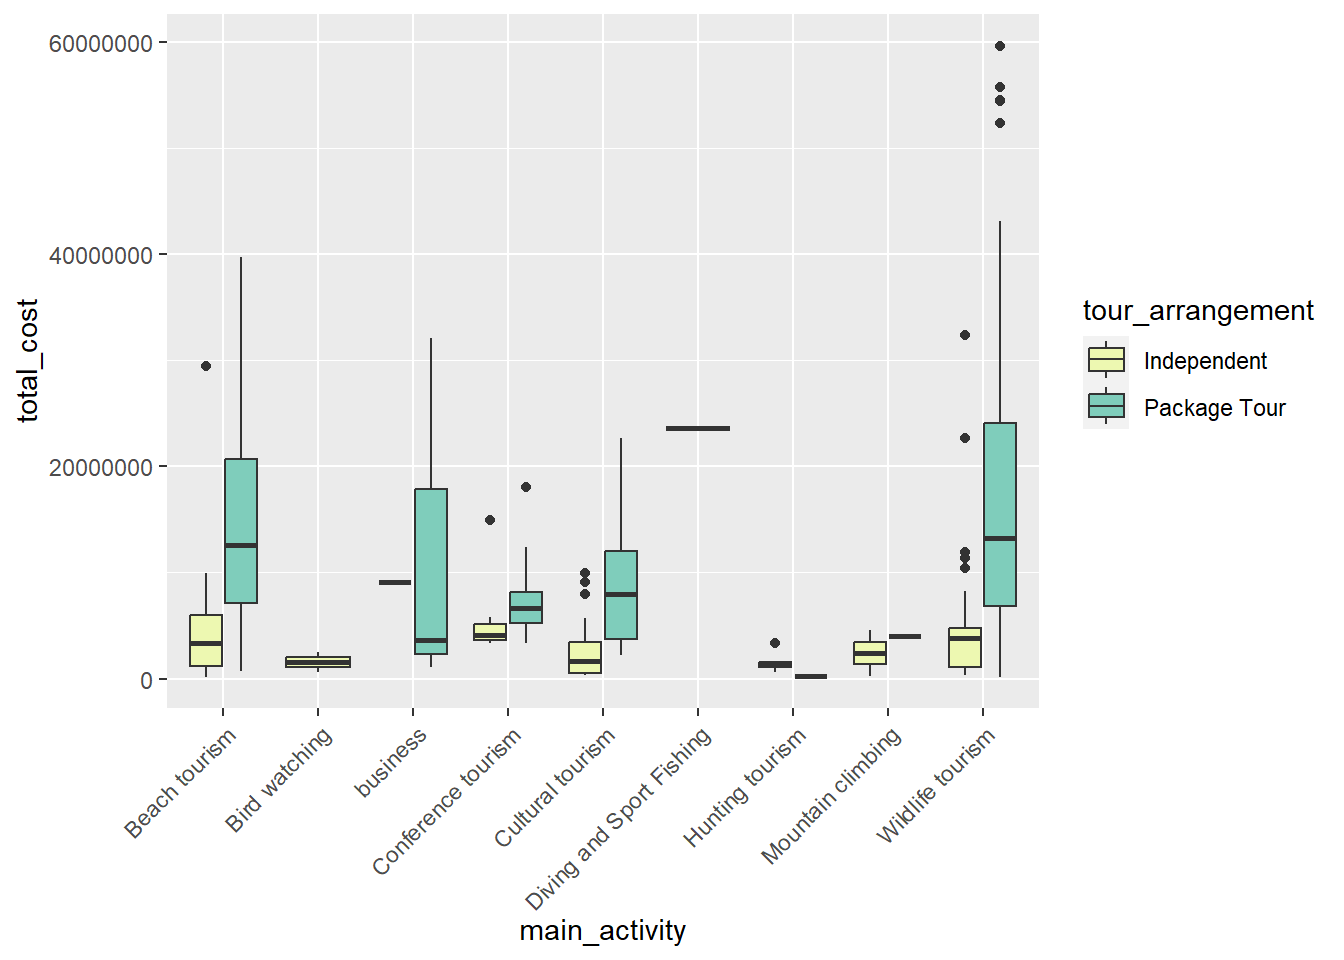
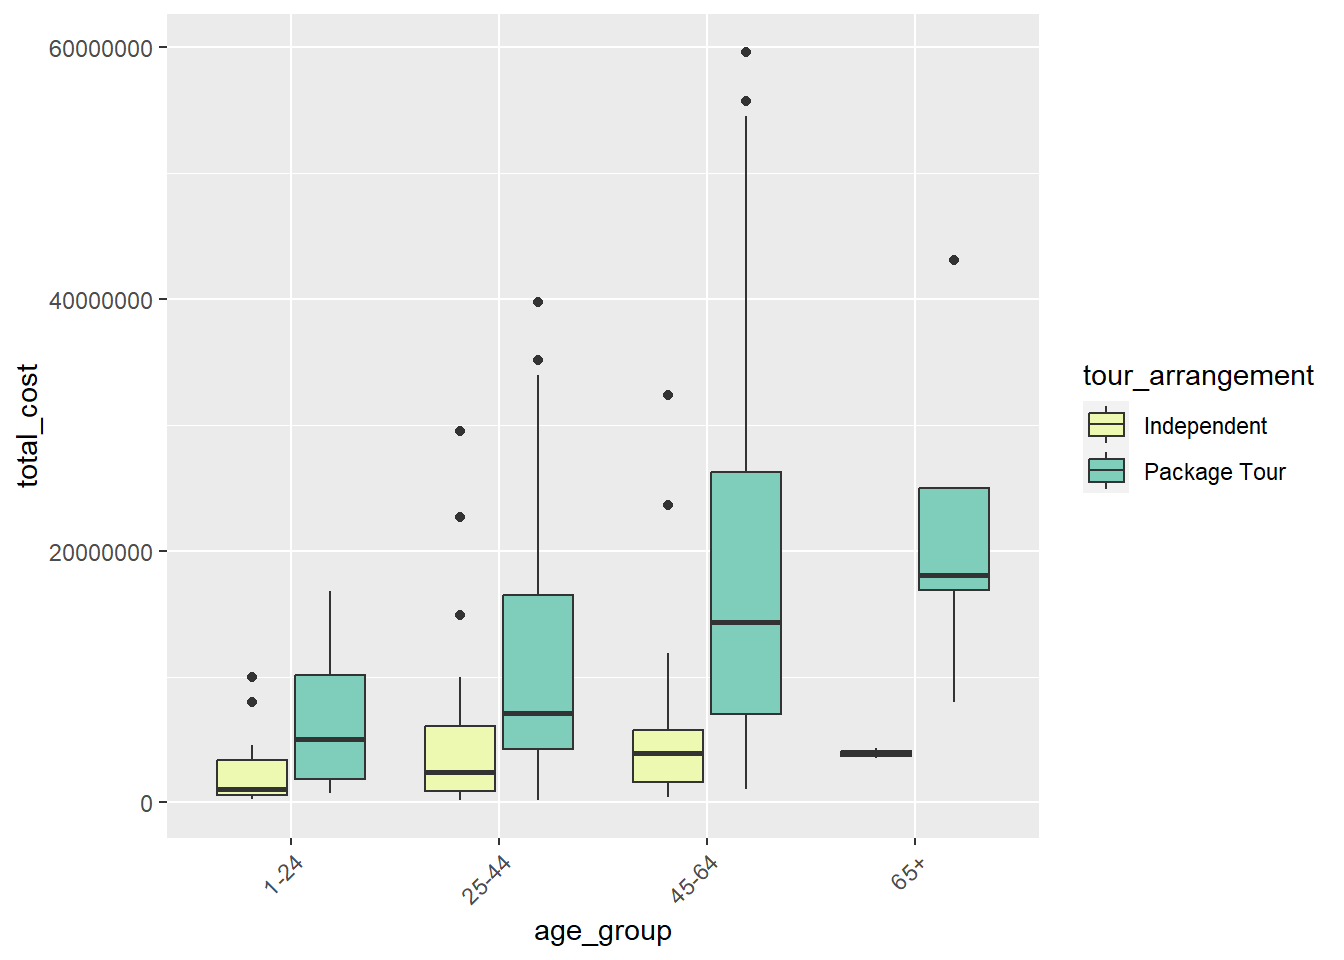
by age group

diff --git a/_site/EDA/EDA.html b/_site/EDA/EDA.html
@@ -311,7 +311,7 @@ code span.wa { color: #60a0b0; font-weight: bold; font-style: italic; } /* Warni
 <div class="sourceCode cell-code" id="cb9"><pre class="sourceCode r code-with-copy"><code class="sourceCode r"><span id="cb9-1"><a href="#cb9-1" aria-hidden="true" tabindex="-1"></a><span class="fu">options</span>(<span class="at">scipen =</span> <span class="dv">999</span>)</span>
 <span id="cb9-2"><a href="#cb9-2" aria-hidden="true" tabindex="-1"></a></span>
 <span id="cb9-3"><a href="#cb9-3" aria-hidden="true" tabindex="-1"></a>p1 <span class="ot">&lt;-</span> <span class="fu">ggplot</span>(<span class="at">data =</span> touristdata_clean <span class="sc">%&gt;%</span> <span class="fu">filter</span>(country <span class="sc">==</span> <span class="st">"GERMANY"</span>) <span class="sc">%&gt;%</span> <span class="fu">group_by</span>(tour_arrangement),</span>
-<span id="cb9-4"><a href="#cb9-4" aria-hidden="true" tabindex="-1"></a>                 <span class="fu">aes</span>(<span class="at">y =</span> total_cost, <span class="at">x =</span> main_activity)) <span class="sc">+</span> <span class="fu">geom_boxplot</span>(<span class="fu">aes</span>(<span class="at">fill =</span> tour_arrangement)) <span class="sc">+</span> <span class="fu">scale_fill_brewer</span>(<span class="at">palette=</span><span class="st">"YlGnBu"</span>) <span class="sc">+</span> <span class="fu">theme</span>(<span class="at">axis.text.x =</span> <span class="fu">element_text</span>(<span class="at">angle =</span> <span class="dv">45</span>, <span class="at">vjust =</span> <span class="dv">1</span>, <span class="at">hjust=</span><span class="dv">1</span>))</span>
+<span id="cb9-4"><a href="#cb9-4" aria-hidden="true" tabindex="-1"></a>                 <span class="fu">aes</span>(<span class="at">y =</span> total_cost, <span class="at">x =</span> age_group)) <span class="sc">+</span> <span class="fu">geom_boxplot</span>(<span class="fu">aes</span>(<span class="at">fill =</span> tour_arrangement)) <span class="sc">+</span> <span class="fu">scale_fill_brewer</span>(<span class="at">palette=</span><span class="st">"YlGnBu"</span>) <span class="sc">+</span> <span class="fu">theme</span>(<span class="at">axis.text.x =</span> <span class="fu">element_text</span>(<span class="at">angle =</span> <span class="dv">45</span>, <span class="at">vjust =</span> <span class="dv">1</span>, <span class="at">hjust=</span><span class="dv">1</span>))</span>
 <span id="cb9-5"><a href="#cb9-5" aria-hidden="true" tabindex="-1"></a></span>
 <span id="cb9-6"><a href="#cb9-6" aria-hidden="true" tabindex="-1"></a>p1</span></code><button title="Copy to Clipboard" class="code-copy-button"><i class="bi"></i></button></pre></div>
 <div class="cell-output-display">
